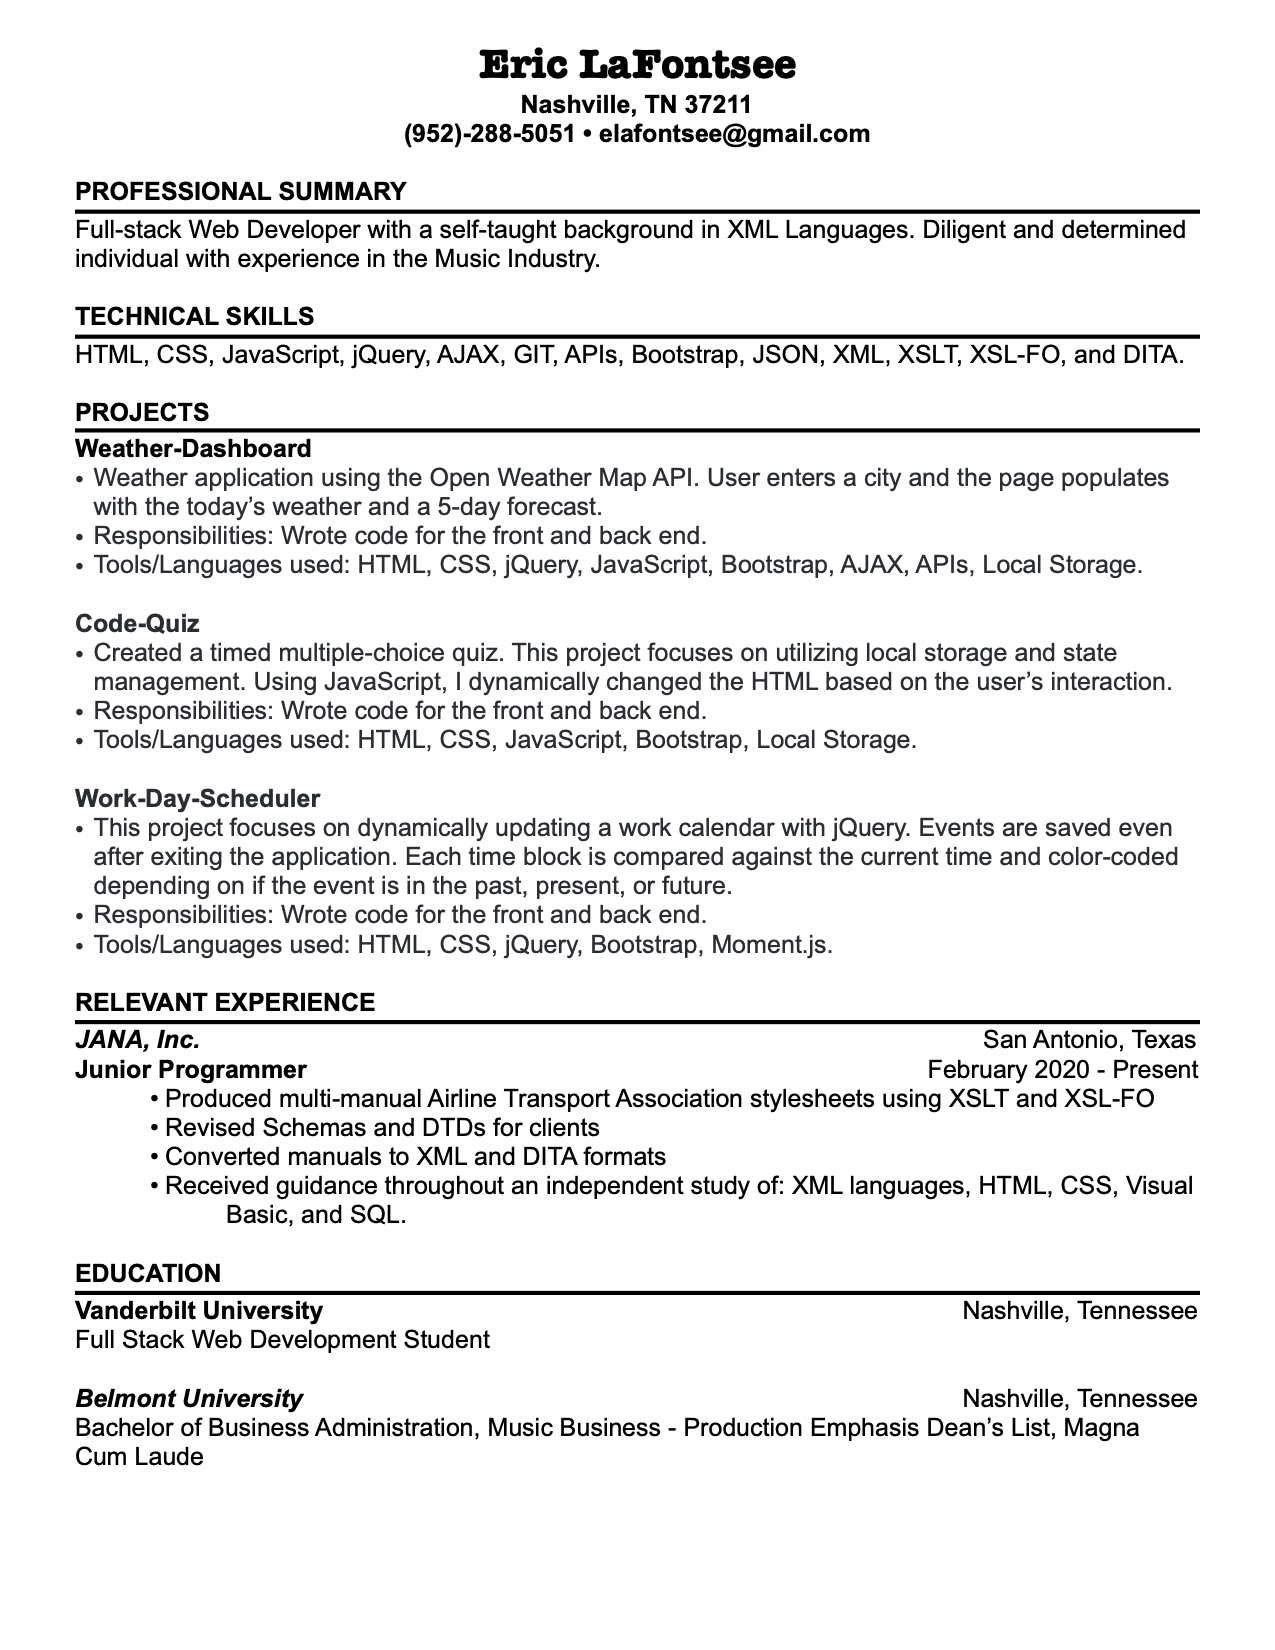
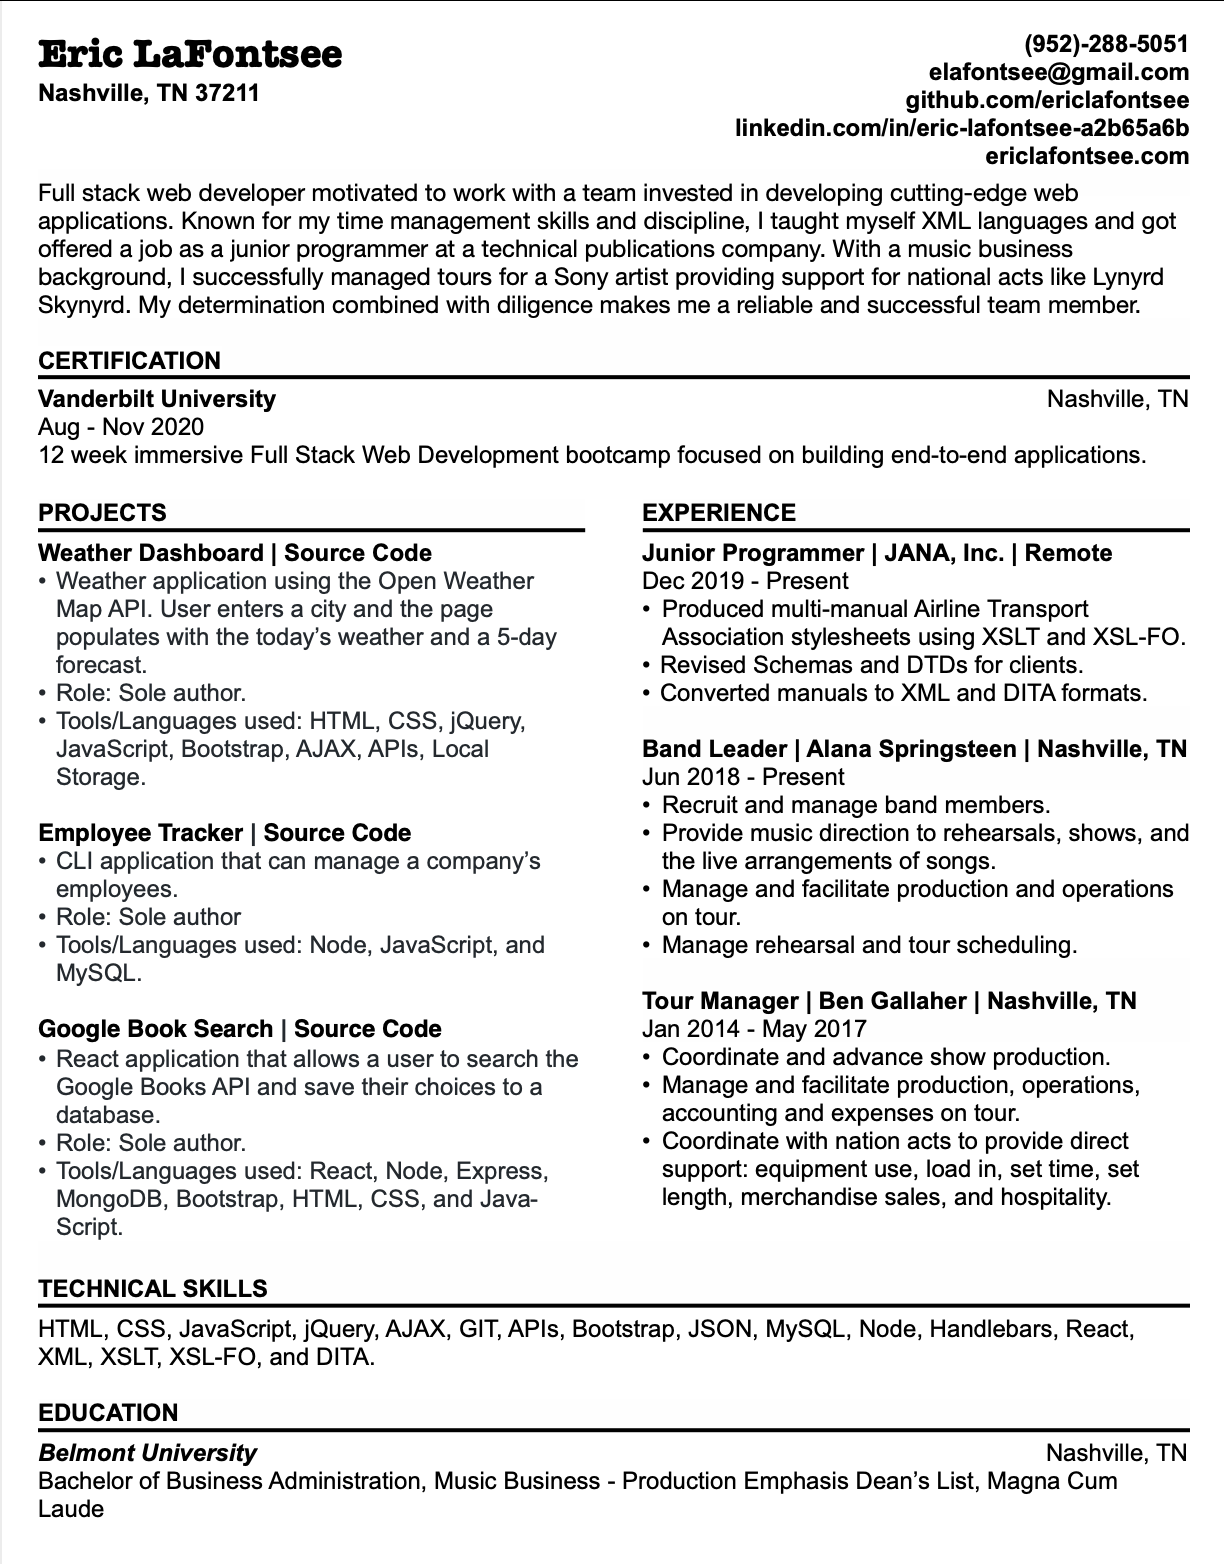
Added my new resume to the resume page

Changed region(s): [[0.031, 0.0, 0.9935, 0.9821], [0.031, 0.0, 0.2794, 0.0614]]

diff --git a/client/src/pages/Resume/index.js b/client/src/pages/Resume/index.js
@@ -12,7 +12,7 @@ function Resume() {
     <div className="row mb-3">
         <div className="col-md-12 d-flex justify-content-center">
             <div className=" margin-top ">
-                <a href="https://drive.google.com/file/d/1SeOB1Sipwgn7tsDr4H7k9gwA3twBFAWH/view?usp=sharing">   
+                <a href="https://drive.google.com/file/d/1xXySqfjX-D1bkBxaBjedRBEYPGnbsOKE/view?usp=sharing">   
                 <FontAwesomeIcon icon="download" size="4x" className="icon"/>
                 </a>
                 <img src={process.env.PUBLIC_URL + '/images/resume-2020.png'} className="resume card-img-top img-fluid w-100" alt="Eric LaFontsee's Resume"/>
